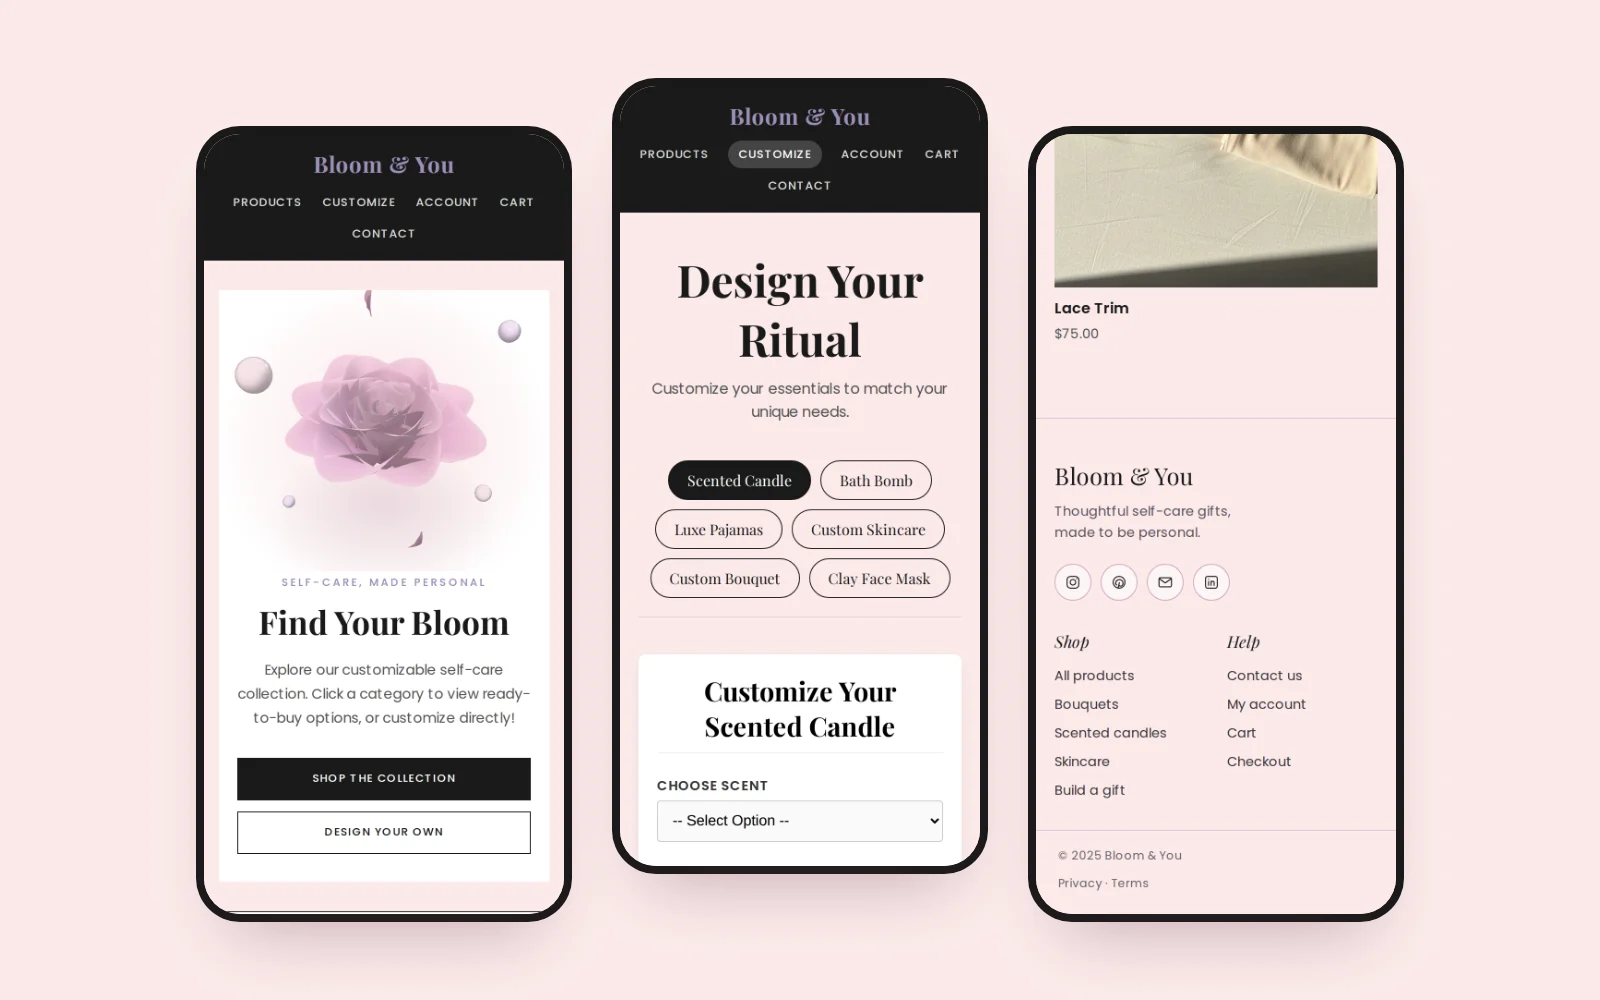
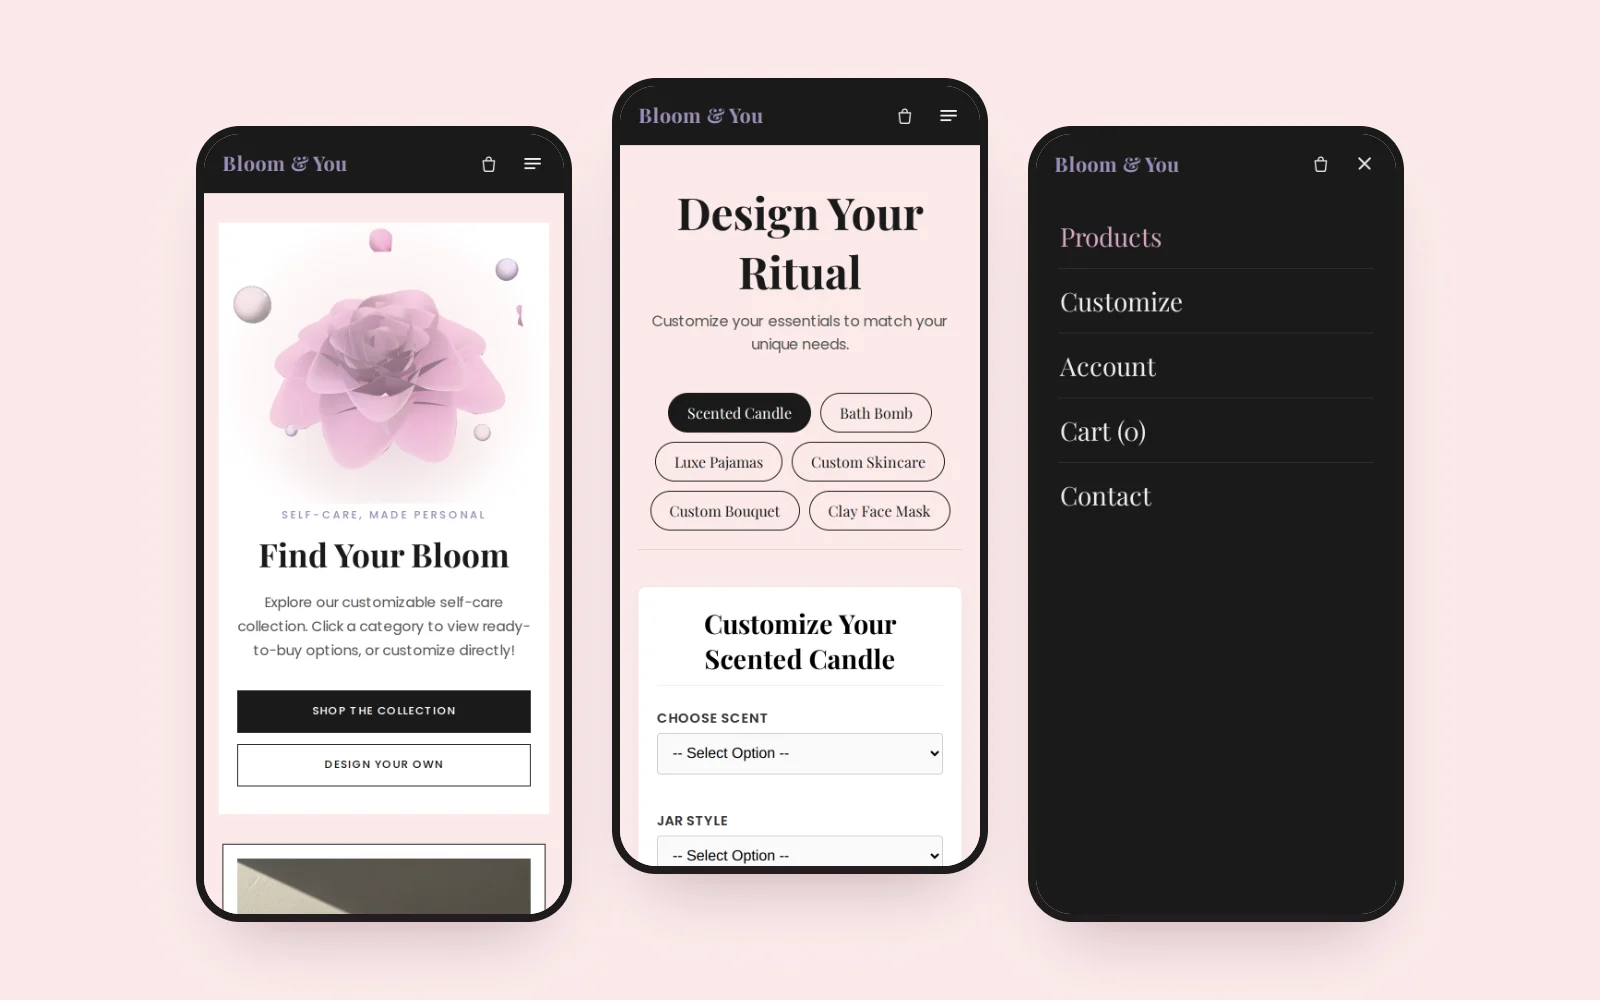
Phone screenshots with the new menu

Changed region(s): [[0.125, 0.093, 0.875, 0.93]]

diff --git a/README.md b/README.md
@@ -37,7 +37,7 @@ gift in the customiser, keep a cart, create an account and check out.
 | **Account** | **Footer** |
 | <img src="docs/screenshots/04-account.webp" alt="Create account form" /> | <img src="docs/screenshots/07-footer.webp" alt="Site footer with shop and help links" /> |
 
-<p align="center"><img src="docs/screenshots/08-phones.webp" width="860" alt="Home, customiser and footer on a phone" /></p>
+<p align="center"><img src="docs/screenshots/08-phones.webp" width="860" alt="Home, customiser and the menu on a phone" /></p>
 
 ## Tech stack
 
